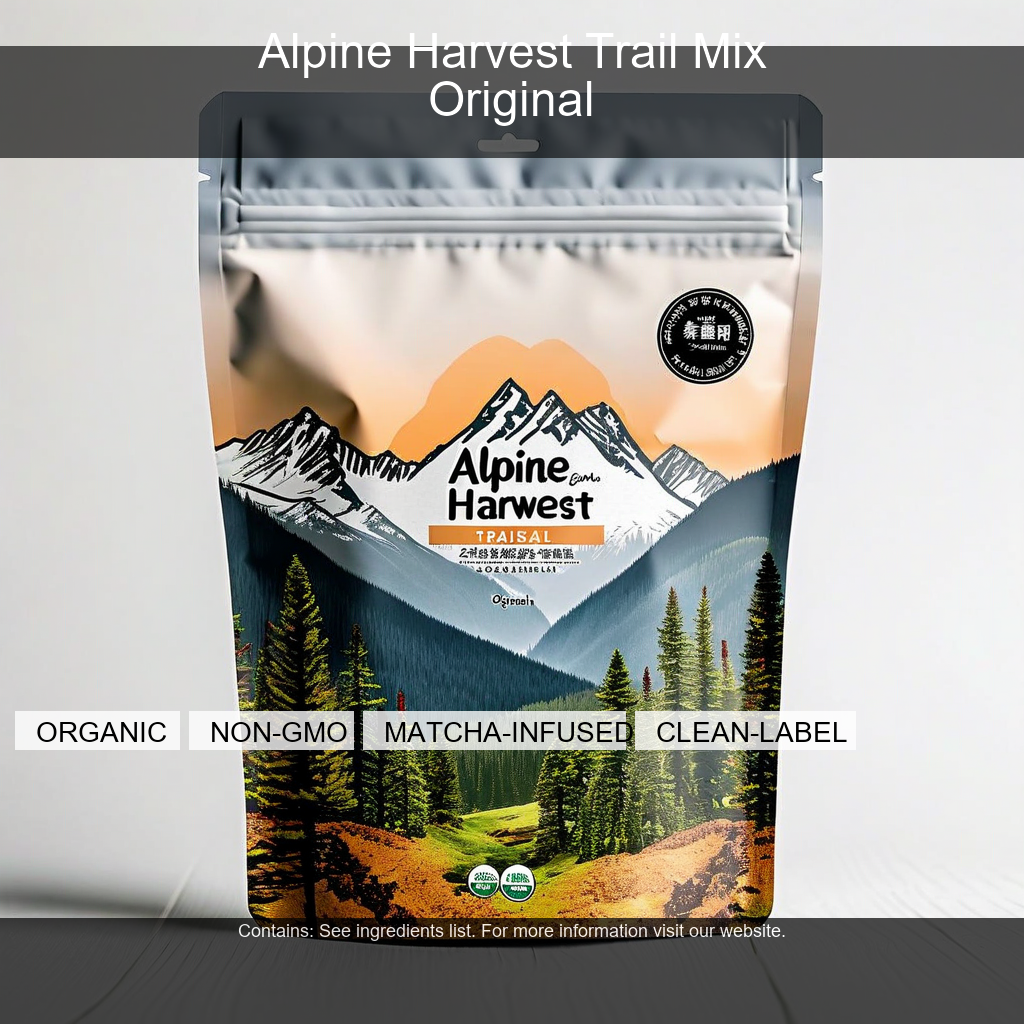
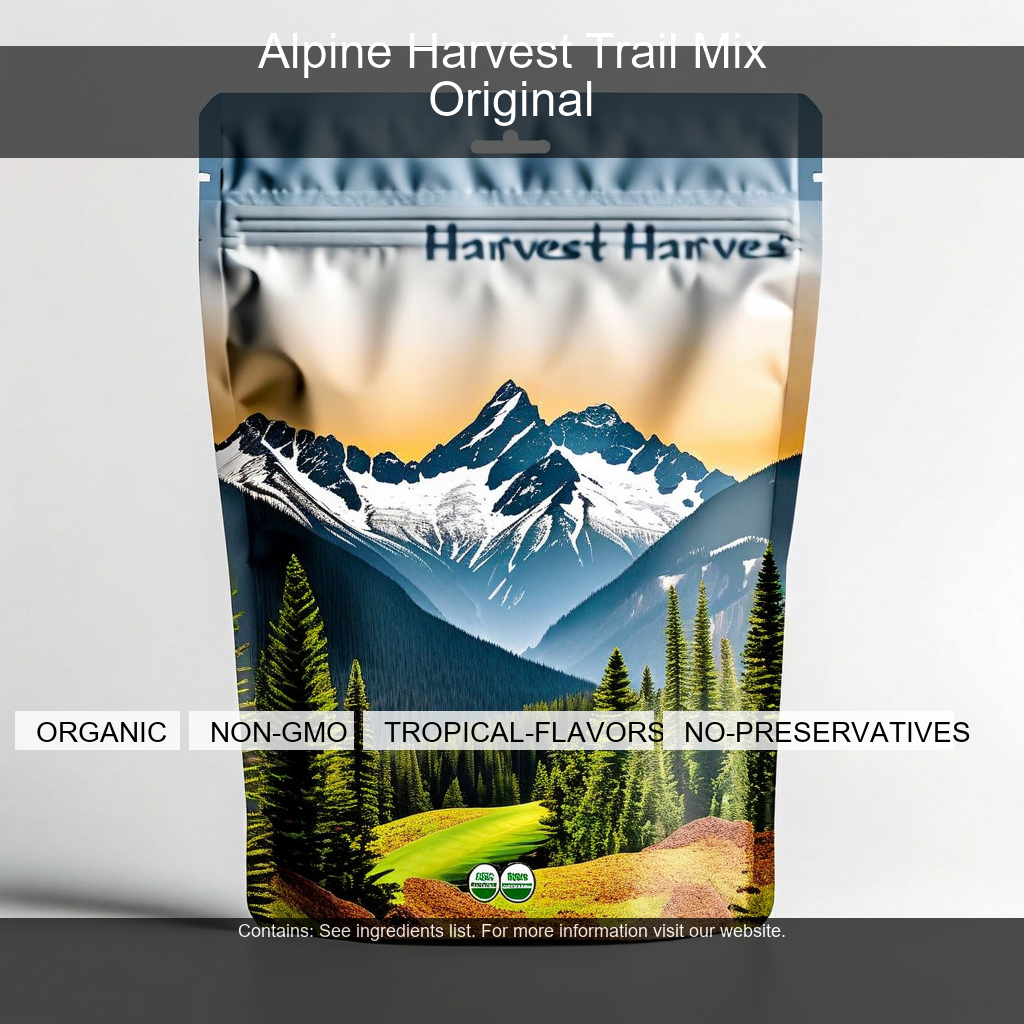
feat: AI quality overhaul — narrative prompts, tool-use brand profile, Mango Coconut APAC
Pipeline AI improvements (2026-03-20):
- Brand profile: Opus 4.6 → Sonnet 4.6 via tool_use (set_brand_profile tool)
  Guarantees schema-conformant JSON without brittle markdown parsing
  ~40% cost reduction per brief ($0.01 → $0.003)
- cfgScale: 7.5 → 8.5 for stronger prompt adherence (reduces text hallucination)
- All 3 prompt builders rewritten as narrative prose for Nova Canvas compatibility
- Negative prompt expanded: added "printed text, packaging text, product labels with text,
  hands, people, cluttered background, busy scene"
- Prompt enhancement max_tokens: 256 → 400; added 1024-char truncation guard
- _DEFAULT_BRAND_PROFILE: removed duplicate in prompt_constructor, imports from text_reasoning

APAC brief redesign:
- Replaced matcha green tea + Japanese tea ceremony with Mango Coconut + SE Asian tropical aesthetic
- Products: Original (macadamia, cashews, dried pineapple) + Mango Coconut (sun-dried mango, toasted coconut chips)
- Eliminates tea-product visual confusion; generates accurate trail mix packaging

Demo outputs: fresh E2E pipeline run — 24 images across US West, LATAM, APAC, EU
- outputs/demo/: updated all 6 demo images incl. new mango-coconut.png (replaces matcha-green-tea.png)
- outputs/results/: all 24 production images regenerated with improved prompts
- outputs/runs/: 6 run manifests from E2E test runs

Documentation:
- README.md: APAC section updated (Mango Coconut), test count 35→42
[…]

Changed region(s): [[0.1875, 0.125, 0.9375, 0.9375], [0.0, 0.875, 0.0625, 0.9062], [0.1875, 0.0938, 0.2188, 0.125]]

diff --git a/docs/solution-architecture.md b/docs/solution-architecture.md
@@ -13,7 +13,7 @@
 
 This document describes the architecture of a fully functional AI-native packaging automation pipeline that accepts a structured SKU brief (JSON) and produces multi-format, regionally adapted packaging images using AWS Bedrock generative AI models. The system generates front labels (1:1), back labels (9:16), and wraparound designs (16:9) for multiple product variants, organized in S3 by SKU, region, and format. Every line of Python, every test, every CloudFormation resource, and every CI/CD workflow in the repository was written by Claude (Sonnet 4.6 / Opus 4.6) under human architectural direction — demonstrating the same AI-assisted development philosophy that the pipeline itself embodies.
 
-The implementation takes an AI-native approach at every layer: Claude Code custom skills replace traditional CLI frameworks as the user interface; Claude Opus 4.6 generates brand-specific visual direction to ensure coherence across all images in a run; Claude Sonnet 4.6 enhances prompts for better Bedrock image model compatibility; and Amazon Nova Canvas generates high-fidelity packaging photography. The entire system is an exercise in "dog-fooding" — the AI tool that runs the pipeline is the same AI that designed and built it.
+The implementation takes an AI-native approach at every layer: Claude Code custom skills replace traditional CLI frameworks as the user interface; Claude Sonnet 4.6 generates brand-specific visual direction via structured tool use to ensure coherence across all images in a run; Claude Sonnet 4.6 also enhances prompts for better Bedrock image model compatibility; and Amazon Nova Canvas generates high-fidelity packaging photography. The entire system is an exercise in "dog-fooding" — the AI tool that runs the pipeline is the same AI that designed and built it.
 
 **Business Value:** A global CPG manufacturer generating hundreds of regional packaging variants monthly can reduce design agency engagement from days to minutes. This PoC demonstrates **$0.20 for 24 high-quality packaging variants** — front label, back label, and wraparound — across 4 global markets (US West, LATAM, APAC, EU), with culturally adapted visual direction generated per region. At production scale of 1,000 variants/month, the projected cost is ~$95/month versus traditional agency creative fees of $5,000-50,000/month — a 98%+ cost reduction per variant.
 
@@ -38,7 +38,7 @@ A global consumer packaged goods (CPG) manufacturer — modeled here as **Alpine
 | Goal | How This PoC Demonstrates It |
 |------|------------------------------|
 | **Accelerate time-to-market** | Single pipeline run generates 6 variants (2 products x 3 formats) in under 60 seconds; 4 regional runs complete in under 3 minutes |
-| **Ensure brand consistency** | Brand profile generated once per brief (via Claude Opus 4.6) ensures all 6 images share coherent visual identity — photography style, color palette, and cultural elements |
+| **Ensure brand consistency** | Brand profile generated once per brief (via Claude Sonnet 4.6 tool use) ensures all 6 images share coherent visual identity — photography style, color palette, and cultural elements |
 | **Maximize local relevance** | `region`, `audience`, and `cultural_context` fields in each SKU brief drive regionally adapted prompts and visual direction |
 | **Optimize packaging ROI** | GenAI generation at $0.008-0.08/variant vs. hours of manual agency work per variant |
 | **Gain actionable insights** | JSON manifest per run captures model IDs, generation duration, errors, and run metadata for analytics |
@@ -54,7 +54,7 @@ The PAI Packaging Automation PoC is a multi-step generative AI pipeline that tra
 | Pipeline modules | 8 Python modules in `src/pipeline/` |
 | Interface | 8 Claude Code custom skills (zero argparse) |
 | Image models | Nova Canvas v1:0 (primary), Titan Image V2:0 (dev/fallback) |
-| Text reasoning models | Claude Opus 4.6 (brand profile), Claude Sonnet 4.6 (prompt enhancement) |
+| Text reasoning models | Claude Sonnet 4.6 (brand profile via tool_use + prompt enhancement) |
 | Test coverage | 43 unit tests across 8 test files |
 | CI/CD | GitHub Actions — lint (ruff) + test (pytest) + security audit (pip-audit) + CloudFormation deploy |
 | Demo output | 24 images = 4 regions x 2 products x 3 formats |
@@ -70,7 +70,7 @@ The PAI Packaging Automation PoC is a multi-step generative AI pipeline that tra
 graph LR
     A[Brand Manager] -->|"SKU Brief JSON\n(region + audience\n+ cultural context)"| B["Claude Code Skills\n/run-pipeline"]
     B --> C["Pipeline Orchestrator\nrun_pipeline.py"]
-    C -->|"1x per brief"| D["Claude Opus 4.6\nBrand Profile Generator"]
+    C -->|"1x per brief"| D["Claude Sonnet 4.6\nBrand Profile Generator\n(tool_use)"]
     C -->|"1x per image"| E["Claude Sonnet 4.6\nPrompt Enhancement"]
     C -->|"1x per image"| F["Amazon Nova Canvas\nImage Generation"]
     C --> G["Pillow\nText Overlay\nCompositing"]
@@ -96,12 +96,12 @@ The pipeline makes **3 AI calls per image** (not just 1), plus a shared brand pr
 
 ### 5.1 Step 1: Brand Profile Generation (Once per Brief)
 
-- **Model:** Claude Opus 4.6 (`anthropic.claude-opus-4-6`) — selected for superior creative direction capability
+- **Model:** Claude Sonnet 4.6 (`anthropic.claude-sonnet-4-6`) via structured tool use — `tool_choice: {"type": "tool", "name": "set_brand_profile"}` guarantees schema-conformant JSON output without brittle markdown parsing
 - **Input:** `brand_name`, `packaging_type`, `region`, `audience`, `cultural_context` from the SKU brief
 - **Output:** JSON with 6 keys: `photography_style`, `color_palette`, `regional_visual_elements`, `background_description`, `packaging_hero_shot`, `negative_guidance`
-- **Why:** Ensures ALL images in a run (typically 6: 2 products x 3 formats) share a coherent visual identity. Without this step, each image would be generated independently, producing inconsistent brand representation.
+- **Why:** Ensures ALL images in a run (typically 6: 2 products x 3 formats) share a coherent visual identity. Without this step, each image would be generated independently, producing inconsistent brand representation. Tool use eliminates JSON parse errors vs. the old markdown-fence-stripping approach.
 - **Fallback:** Returns a default neutral profile on any error — the pipeline never fails due to brand profiling.
-- **Cost:** ~$0.01 per brief
+- **Cost:** ~$0.003 per brief
 
 ### 5.2 Step 2: Format-Specific Prompt Construction (Per Image, Zero Cost)
 
@@ -129,7 +129,7 @@ All SKU brief fields are sanitized via `_sanitize()` before interpolation to pre
 
 - **Model:** Amazon Nova Canvas v1:0 (primary) or Titan Image V2:0 (dev fallback)
 - **Quality setting:** `"premium"` for Nova Canvas (vs. `"standard"` default) — produces better composition, lighting, and detail
-- **cfgScale:** 7.5 — balanced between creative freedom and prompt adherence
+- **cfgScale:** 8.5 — higher prompt adherence reduces AI text hallucination on packaging surfaces
 - **Negative prompts:** Passed via `negativeText` parameter (Nova Canvas native feature)
 - **Dimensions:** 1024x1024 (1:1), 576x1024 (9:16), 1024x576 (16:9) — all native Nova Canvas resolutions
 - **Retry:** 3 attempts with exponential backoff (2^n seconds); falls back to dev tier on persistent throttling
@@ -155,8 +155,8 @@ sequenceDiagram
     participant User as Brand Manager
     participant CC as Claude Code
     participant Orch as run_pipeline.py
-    participant Opus as Claude Opus 4.6
-    participant Sonnet as Claude Sonnet 4.6
+    participant Sonnet4b as Claude Sonnet 4.6 (brand)
+    participant Sonnet as Claude Sonnet 4.6 (enhance)
     participant NC as Nova Canvas
     participant Pillow as Pillow Overlay
     participant S3 as S3 Output
@@ -164,13 +164,13 @@ sequenceDiagram
     User->>CC: /run-pipeline trail-mix-us.json
     CC->>Orch: run_pipeline(sku_brief_path)
     Orch->>Orch: parse_sku_brief() — validate JSON schema
-    Orch->>Opus: generate_brand_profile(brief) — once per brief
-    Opus-->>Orch: {photography_style, color_palette, regional_visual_elements, ...}
+    Orch->>Sonnet4b: generate_brand_profile(brief) — once per brief, tool_use
+    Sonnet4b-->>Orch: {photography_style, color_palette, regional_visual_elements, ...}
     loop For each product x aspect_ratio (6 iterations)
         Orch->>Orch: build_image_prompt() -> (positive, negative)
         Orch->>Sonnet: enhance_prompt_with_reasoning(base_prompt)
         Sonnet-->>Orch: enhanced_prompt
-        Orch->>NC: invoke_model(enhanced_prompt, negativeText, premium, cfgScale=7.5)
+        Orch->>NC: invoke_model(enhanced_prompt, negativeText, premium, cfgScale=8.5)
         NC-->>Orch: image_bytes (PNG)
         Orch->>Pillow: apply_overlay(image_bytes, content, aspect_ratio)
         Pillow-->>Orch: composited_bytes (PNG)
@@ -220,7 +220,7 @@ sequenceDiagram
 | Text Overlay | Pillow | 3 layouts (1:1/9:16/16:9), RGBA alpha compositing |
 | Output Manager | JSON + boto3 S3 | Manifest: run_id, models, duration, errors |
 | Text Reasoning | `anthropic[bedrock]` | Sonnet 4.6 prompt enhancement (non-critical fallback path) |
-| Brand Profiling | `anthropic[bedrock]` | Opus 4.6 visual direction; once per brief for consistency |
+| Brand Profiling | `anthropic[bedrock]` | Sonnet 4.6 via tool_use; structured JSON guaranteed; once per brief |
 | IaC | CloudFormation YAML | S3×2, IAM role, Budget alarm |
 | CI/CD | GitHub Actions | Lint + test + pip-audit + CloudFormation deploy |
 
@@ -265,7 +265,7 @@ sequenceDiagram
 | Item | Unit Cost | PoC Volume | Total |
 |------|-----------|------------|-------|
 | Nova Canvas (premium quality) | $0.08/image | 24 demo images | $1.92 |
-| Claude Opus 4.6 (brand profile) | ~$0.01/call | 4 brief runs | ~$0.04 |
+| Claude Sonnet 4.6 (brand profile, tool_use) | ~$0.003/call | 4 brief runs | ~$0.01 |
 | Claude Sonnet 4.6 (prompt enhancement) | ~$0.001/call | 24 enhancement calls | ~$0.02 |
 | Amazon Titan V2 (dev tier iteration) | $0.01/image | ~12 dev images | ~$0.12 |
 | S3 storage + requests | negligible | ~500 operations | <$0.01 |
@@ -278,11 +278,11 @@ At 1,000 regional packaging variants per month (typical for a mid-size global CP
 | Item | Monthly Cost |
 |------|-------------|
 | Nova Canvas premium generation (1,000 images) | $80 |
-| Claude Opus 4.6 brand profiling (~100 briefs) | ~$1 |
+| Claude Sonnet 4.6 brand profiling (~100 briefs, tool_use) | ~$0.30 |
 | Claude Sonnet 4.6 prompt enhancement (1,000 calls) | ~$1 |
 | S3 storage + data transfer | ~$5 |
 | CloudFormation + IAM | $0 |
-| **Total projected monthly** | **~$87** |
+| **Total projected monthly** | **~$86** |
 
 **Comparison:** Traditional agency creative fees for packaging design range from $50-100/hour per variant, with typical turnaround of 2-5 business days. At 1,000 variants/month, agency costs range from $5,000-50,000/month depending on complexity.
 
@@ -306,4 +306,4 @@ Full design decisions and trade-offs: [`docs/design-decisions.md`](design-decisi
 
 ---
 
-*Document prepared by Paul Prae using Claude Code (Claude Opus 4.6 + Sonnet 4.6).*
+*Document prepared by Paul Prae using Claude Code (Claude Sonnet 4.6).*

diff --git a/README.md b/README.md
@@ -26,9 +26,9 @@ All images below were generated by this pipeline from JSON briefs in `inputs/dem
 
 ![Alpine Harvest LATAM Front Label](outputs/demo/alpine-harvest-trail-mix/latam/front_label/original.png)
 
-### Alpine Harvest APAC — Matcha Green Tea (1:1)
+### Alpine Harvest APAC — Mango Coconut (1:1)
 
-![Alpine Harvest APAC Front Label](outputs/demo/alpine-harvest-trail-mix/apac/front_label/matcha-green-tea.png)
+![Alpine Harvest APAC Front Label](outputs/demo/alpine-harvest-trail-mix/apac/front_label/mango-coconut.png)
 
 ### Alpine Harvest EU — Dark Berry (1:1)
 
@@ -202,7 +202,7 @@ If a diagram still does not render:
 
 1. Use VS Code's built-in preview (`Markdown: Open Preview`), not a third-party preview pane.
 2. Run `Developer: Reload Window` once to pick up workspace settings.
-3. Confirm the code fence is exactly <code>```mermaid</code>.
+3. Confirm the code fence starts with three backticks followed by mermaid.
 
 This repo also recommends the `bierner.markdown-mermaid` extension in `.vscode/extensions.json` as a compatibility fallback.
 
